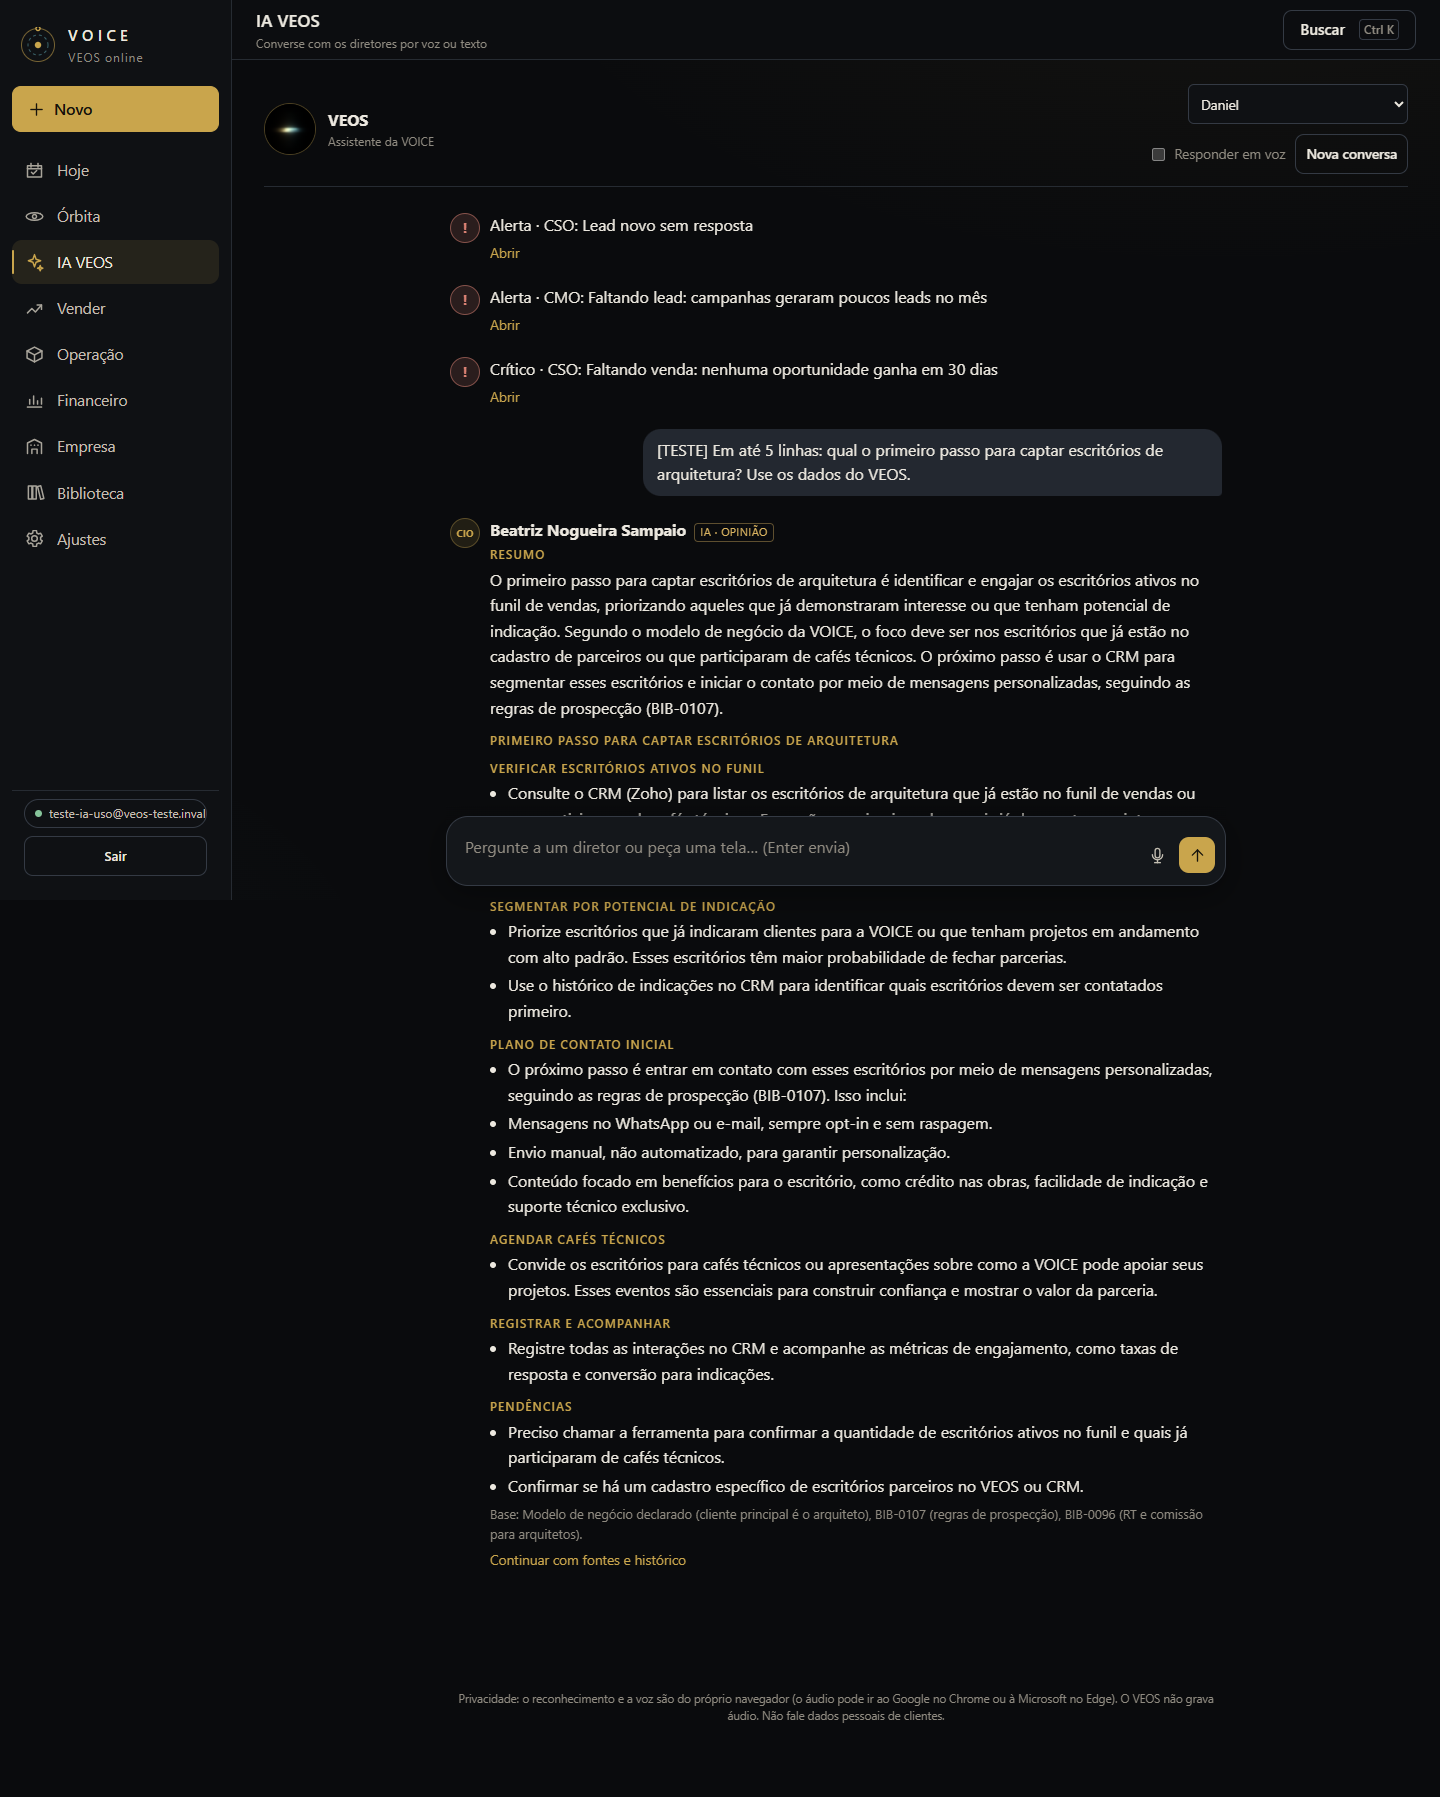
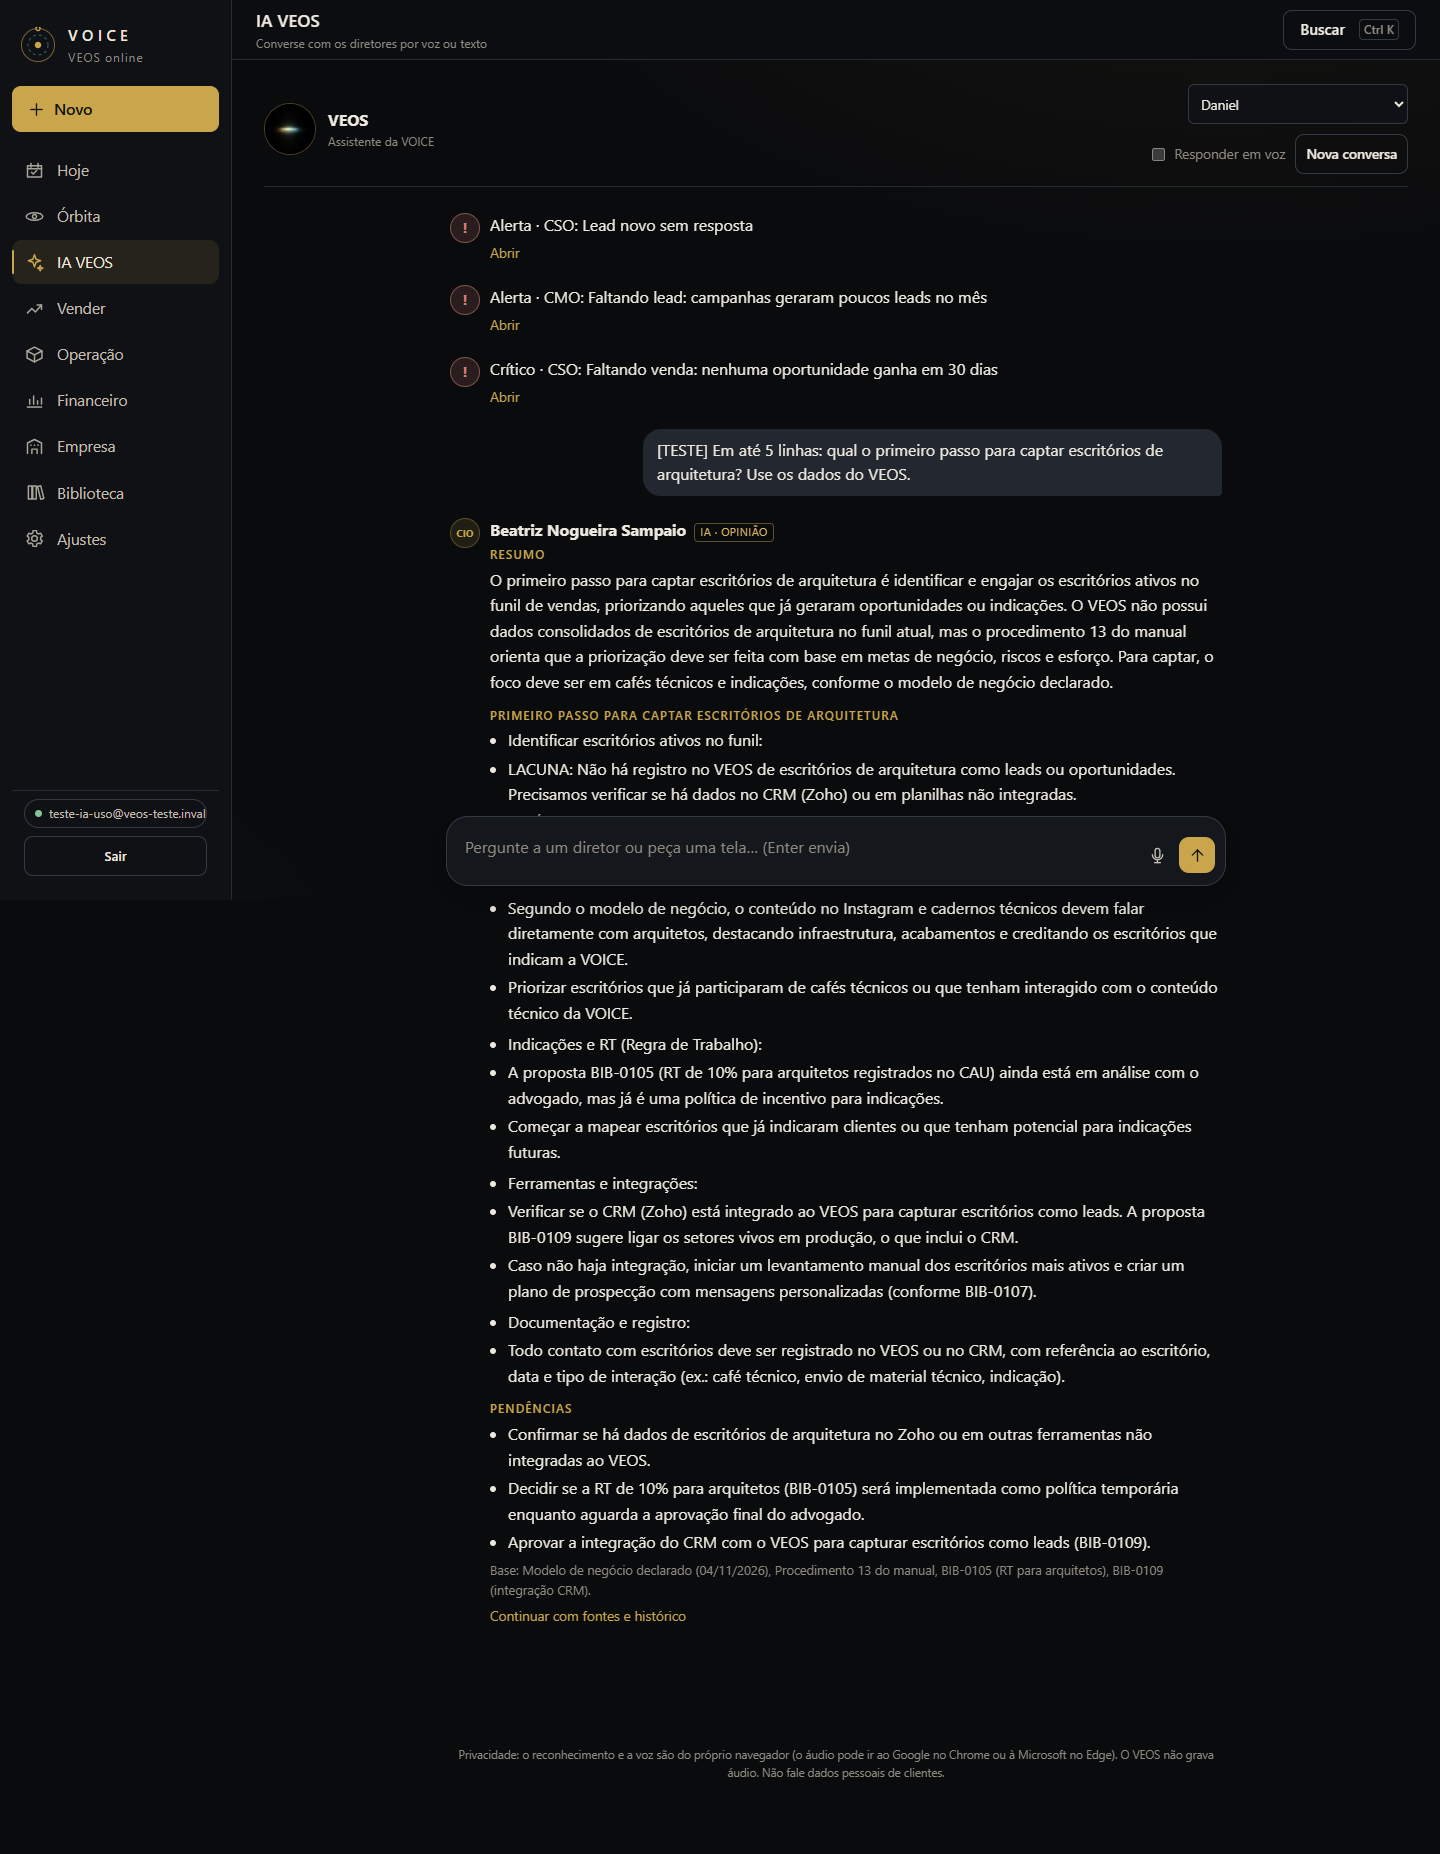
Resumo leve do faturamento, limpeza do ia.css

diff --git a/tests/telas/diretores.html b/tests/telas/diretores.html
@@ -1,5 +1,5 @@
 <!doctype html><html lang="pt-BR"><head><meta charset="utf-8"><meta name="viewport" content="width=device-width,initial-scale=1">
-<link rel="stylesheet" href="../css/tokens.css"><link rel="stylesheet" href="../css/base.css"><link rel="stylesheet" href="../css/layout.css"><link rel="stylesheet" href="../css/components.css"><link rel="stylesheet" href="../css/views.css"><link rel="stylesheet" href="../css/setores.css"><link rel="stylesheet" href="../css/pendencias.css"><link rel="stylesheet" href="../css/estrutura.css"><link rel="stylesheet" href="../css/orbita.css"><link rel="stylesheet" href="../css/ia.css"><link rel="stylesheet" href="../css/operacao.css"><link rel="stylesheet" href="../css/tema.css">
+<link rel="stylesheet" href="../css/tokens.css"><link rel="stylesheet" href="../css/base.css"><link rel="stylesheet" href="../css/layout.css"><link rel="stylesheet" href="../css/components.css"><link rel="stylesheet" href="../css/views.css"><link rel="stylesheet" href="../css/setores.css"><link rel="stylesheet" href="../css/pendencias.css"><link rel="stylesheet" href="../css/estrutura.css"><link rel="stylesheet" href="../css/orbita.css"><link rel="stylesheet" href="../css/operacao.css"><link rel="stylesheet" href="../css/tema.css">
 
 <!-- casos: conversa falha nova -->
 </head><body><main id="view" class="stack"></main><script type="module" src="diretores.js"></script></body></html>

diff --git a/tests/telas/ia.html b/tests/telas/ia.html
@@ -1,5 +1,5 @@
 <!doctype html><html lang="pt-BR"><head><meta charset="utf-8"><meta name="viewport" content="width=device-width,initial-scale=1">
-<link rel="stylesheet" href="../css/tokens.css"><link rel="stylesheet" href="../css/base.css"><link rel="stylesheet" href="../css/layout.css"><link rel="stylesheet" href="../css/components.css"><link rel="stylesheet" href="../css/views.css"><link rel="stylesheet" href="../css/setores.css"><link rel="stylesheet" href="../css/pendencias.css"><link rel="stylesheet" href="../css/estrutura.css"><link rel="stylesheet" href="../css/orbita.css"><link rel="stylesheet" href="../css/ia.css"><link rel="stylesheet" href="../css/operacao.css"><link rel="stylesheet" href="../css/tema.css">
+<link rel="stylesheet" href="../css/tokens.css"><link rel="stylesheet" href="../css/base.css"><link rel="stylesheet" href="../css/layout.css"><link rel="stylesheet" href="../css/components.css"><link rel="stylesheet" href="../css/views.css"><link rel="stylesheet" href="../css/setores.css"><link rel="stylesheet" href="../css/pendencias.css"><link rel="stylesheet" href="../css/estrutura.css"><link rel="stylesheet" href="../css/orbita.css"><link rel="stylesheet" href="../css/operacao.css"><link rel="stylesheet" href="../css/tema.css">
 
 <!-- casos: pergunta tela aviso -->
 </head><body><main id="view" class="stack"></main><script type="module" src="ia.js"></script></body></html>

diff --git a/tests/telas/hoje.html b/tests/telas/hoje.html
@@ -1,5 +1,5 @@
 <!doctype html><html lang="pt-BR"><head><meta charset="utf-8"><meta name="viewport" content="width=device-width,initial-scale=1">
-<link rel="stylesheet" href="../css/tokens.css"><link rel="stylesheet" href="../css/base.css"><link rel="stylesheet" href="../css/layout.css"><link rel="stylesheet" href="../css/components.css"><link rel="stylesheet" href="../css/views.css"><link rel="stylesheet" href="../css/setores.css"><link rel="stylesheet" href="../css/pendencias.css"><link rel="stylesheet" href="../css/estrutura.css"><link rel="stylesheet" href="../css/orbita.css"><link rel="stylesheet" href="../css/ia.css"><link rel="stylesheet" href="../css/operacao.css"><link rel="stylesheet" href="../css/tema.css">
+<link rel="stylesheet" href="../css/tokens.css"><link rel="stylesheet" href="../css/base.css"><link rel="stylesheet" href="../css/layout.css"><link rel="stylesheet" href="../css/components.css"><link rel="stylesheet" href="../css/views.css"><link rel="stylesheet" href="../css/setores.css"><link rel="stylesheet" href="../css/pendencias.css"><link rel="stylesheet" href="../css/estrutura.css"><link rel="stylesheet" href="../css/orbita.css"><link rel="stylesheet" href="../css/operacao.css"><link rel="stylesheet" href="../css/tema.css">
 
 <!-- casos: cheio vazio -->
 </head><body><main id="view" class="stack"></main><script type="module" src="hoje.js"></script></body></html>

diff --git a/tests/telas/operacao.js b/tests/telas/operacao.js
@@ -20,7 +20,8 @@ const ITENS = [{ ordem: 1, secao: "Sala", tipo: "produto", nome: "Interruptor in
 const FORM = { respostas: { impostos: { dados: { aliquota_produto_pct: "6", aliquota_servico_pct: "6" } } } };
 const salvos = [];
 Object.assign(api, {
-  cfoFormulario: async () => FORM, cfoOrcamentos: async () => ({ rbt12: { valor: 300000 }, orcamentos: [] }), cfoProdutos: async () => ({ produtos: [] }), cfoCambio: async () => ({ serie: [] }),
+  cfoFormulario: async () => FORM, cfoOrcamentos: async () => ({ rbt12: { valor: 300000 }, orcamentos: [] }),
+  cfoFaturamento: async () => ({ rbt12: { valor: 300000 } }), cfoProdutos: async () => ({ produtos: [] }), cfoCambio: async () => ({ serie: [] }),
   produtos: async () => ({ total: PROD.length, produtos: PROD }),
   clientes: async () => ({ clientes: caso === "clientes-vazio" ? [] : [CLI] }),
   cliente: async () => ({ cliente: CLI, orcamentos: [ORC], pedidos: [], oportunidades: [], historico: [{ acao: "criado", detalhe: {}, em: "2026-11-04T10:00:00Z" }] }),

diff --git a/supabase/functions/api/cfo.ts b/supabase/functions/api/cfo.ts
@@ -66,6 +66,10 @@ export async function rotearCfo(req: Request, partes: string[], eu: Membro) {
     const [r] = await servico("/rest/v1/formulario_respostas", { method: "POST", headers: { Prefer: "return=representation" }, body: JSON.stringify({ formulario: "cfo", secao: corpo.secao, dados, autor: eu.user_id }) });
     return { id: r.id, em: r.em };
   }
+  if (a === "orcamentos" && !post && new URL(req.url).searchParams.get("resumo") === "1") {
+    // leve: so o faturamento de 12 meses (montador de orcamento e telas que so precisam das aliquotas)
+    return { rbt12: await rbt12(), fonte: "Espelho do Zoho Books no VEOS (faturamento dos últimos 12 meses)" };
+  }
   if (a === "orcamentos" && !post) {
     const [estimativas, itens, faturamento] = await Promise.all([
       servico("/rest/v1/zoho_registros?produto=eq.books&modulo=eq.estimates&excluido=is.false&select=dados&limit=5000"),

diff --git a/apps/web/js/ui/views/orcamento.js b/apps/web/js/ui/views/orcamento.js
@@ -31,7 +31,7 @@ const situacao = (e) => stamp(...(SITUACOES[e] ?? [e, "neutral"]));
 async function contextoPreco() {
   const ctx = { p: null, imp: null, v: 0, rotulo: "LACUNA", texto: null, custoHora: null, cfo: null, validadeDias: 7, entradaPct: 40, canais: [], tempos: [], metrosPorPonto: 25 };
   try {
-    const [{ respostas }, orc] = await Promise.all([api.cfoFormulario(), api.cfoOrcamentos().catch(() => ({ rbt12: null }))]);
+    const [{ respostas }, orc] = await Promise.all([api.cfoFormulario(), api.cfoFaturamento().catch(() => ({ rbt12: null }))]);
     const p = parametros(respostas);
     const dp = diagnosticoParams(p, impostosSimulados(orc.rbt12) ?? impostosSimulados({ valor: 0 }));
     Object.assign(ctx, { p, imp: { produto: dp.params.tProduto, servico: dp.params.tServico }, v: p.v ?? 0, rotulo: dp.rotulo, texto: dp.texto, custoHora: p.hora?.custoHora ?? null,

diff --git a/apps/web/js/ui/views/cfo.js b/apps/web/js/ui/views/cfo.js
@@ -185,7 +185,7 @@ function painelLacunas(p) {
 
 // ================================================================ precos dos produtos
 export async function telaPrecosCfo(root) {
-  const [{ respostas }, { produtos }, orc] = await Promise.all([api.cfoFormulario(), api.cfoProdutos(), api.cfoOrcamentos().catch(() => ({ rbt12: null }))]);
+  const [{ respostas }, { produtos }, orc] = await Promise.all([api.cfoFormulario(), api.cfoProdutos(), api.cfoFaturamento().catch(() => ({ rbt12: null }))]);
   const p = parametros(respostas);
   // dolar desde a compra mais antiga do catalogo (max. 2 anos) para atualizar o custo pela variacao
   const ultimaCompra = (x) => (x.compras ?? []).map((c) => c.data).filter(Boolean).sort().pop() ?? null;

diff --git a/apps/web/js/data/api.js b/apps/web/js/data/api.js
@@ -140,6 +140,7 @@ export const api = {
   cfoFormulario: () => request("GET", "cfo/formulario"),
   cfoSalvarSecao: (secao, dados) => request("POST", "cfo/formulario", { secao, dados }, { "Idempotency-Key": crypto.randomUUID() }),
   cfoOrcamentos: () => request("GET", "cfo/orcamentos"),
+  cfoFaturamento: () => request("GET", "cfo/orcamentos?resumo=1"),
   cfoProdutos: () => request("GET", "cfo/produtos"),
   cfoCambio: (desde = "") => request("GET", `cfo/cambio${desde ? `?desde=${encodeURIComponent(desde)}` : ""}`),
   cfoPainel: () => request("GET", "cfo/painel"),

diff --git a/apps/web/index.html b/apps/web/index.html
@@ -19,7 +19,6 @@
   <link rel="stylesheet" href="css/views.css">
   <link rel="stylesheet" href="css/motion.css">
   <link rel="stylesheet" href="css/orbita.css">
-  <link rel="stylesheet" href="css/ia.css">
   <link rel="stylesheet" href="css/setores.css">
   <link rel="stylesheet" href="css/pendencias.css">
   <link rel="stylesheet" href="css/estrutura.css">

diff --git a/tests/telas/cfo_precos.js b/tests/telas/cfo_precos.js
@@ -5,6 +5,7 @@ import { rodar } from "./_kit.js";
 
 api.cfoFormulario = async () => ({ respostas: structuredClone(RESPOSTAS) });
 api.cfoOrcamentos = async () => ORCAMENTOS;
+api.cfoFaturamento = async () => ORCAMENTOS;
 api.cfoProdutos = async () => structuredClone(PRODUTOS);
 api.cfoCambio = async () => CAMBIO;
 rodar(async (v) => {

diff --git a/docs/PROXIMA_SESSAO.md b/docs/PROXIMA_SESSAO.md
@@ -68,7 +68,7 @@ Setores vivos (9) com registros, regras vivas e Radar · Estrutura da empresa (o
 8. **Importação dos escritórios de arquitetura pelos dados abertos do CNPJ** (CNAE 7111-1/00 e 7410-2/02, região de SC) por um job mensal gratuito no GitHub Actions, entrando como alvos na Prospecção (CSO-17). **Aguarda o OK do Fernando** (regra de prospecção BIB-0107).
 9. **Aviso com o navegador fechado** (Web Push com chaves VAPID nos segredos do Supabase; gratuito) — hoje os avisos só aparecem com o VEOS aberto (CIO-08).
 10. **MCP do VEOS ampliado** ("tudo que eu pedir no Claude ele cria no VEOS"): ferramentas de criação pela API com as permissões do usuário — cliente, orçamento, pedido em rascunho, conta a pagar, tarefa —, sempre com rascunho + confirmação humana para o que for irreversível (CIO-06). Configurar o MCP nesta máquina depende do Fernando gerar o código (Minha conta → Acesso do Claude Code).
-11. **Avisos do assistente**: incluir no chat flutuante as respostas dos diretores dadas em "Perguntar aos diretores" e as tarefas vencidas do dia (hoje entram só os alertas ALTO/CRÍTICO).
+11. **FEITO em 05/11** — Avisos do assistente: incluir no chat flutuante as respostas dos diretores dadas em "Perguntar aos diretores" e as tarefas vencidas do dia (hoje entram só os alertas ALTO/CRÍTICO).
 12. **Indicadores calculados sozinhos** (marketing, pós-venda, satisfação e retrabalho) com fonte e LACUNA quando faltar dado (CMO-06, CXO-06).
 13. **Receita recorrente dos contratos de suporte** (contrato → parcelas mensais → caixa e indicadores) (CFO-13, CXO-05).
 
@@ -77,8 +77,8 @@ Setores vivos (9) com registros, regras vivas e Radar · Estrutura da empresa (o
 15. **Mesclar o catálogo com os itens do Zoho** e o roteiro de desligamento do Zoho por módulo (BIB-0077, COO-04, CIO-05) — só quando o Fernando pedir.
 16. **Publicação automática no Instagram** pela API oficial da Meta (agendar os posts do calendário) — depende da conta comercial ligada a uma Página do Facebook e de quem aprova (CMO-03/CMO-10).
 17. **Histórico visível por registro** nas telas dos setores (SEC-05) e procedimentos que faltam nos manuais (funil no CSO, obra nova no COO, Wi-Fi lento no CIO).
-18. **Desempenho**: Formulário e telas do CFO carregam `GET /cfo/orcamentos` (~3 s, 220 KB); criar um resumo leve só com o faturamento de 12 meses para o montador de orçamento e o formulário.
-19. **Limpeza**: estilos antigos da tela IA (`apps/web/css/ia.css`, classes `.ia-*` não usadas), tela "Comando por voz" antiga e textos que ainda falam em "TESTE" para o usuário real.
+18. **FEITO em 05/11 (GET /cfo/orcamentos?resumo=1 para o montador e os preços)** — Desempenho: Formulário e telas do CFO carregam `GET /cfo/orcamentos` (~3 s, 220 KB); criar um resumo leve só com o faturamento de 12 meses para o montador de orçamento e o formulário.
+19. **FEITO em 05/11 (ia.css removido; textos TESTE do usuário real conferidos)** — Limpeza: estilos antigos da tela IA (`apps/web/css/ia.css`, classes `.ia-*` não usadas), tela "Comando por voz" antiga e textos que ainda falam em "TESTE" para o usuário real.
 
 ## Depende do Fernando para o PROGRAMA funcionar por completo (não é operação da empresa)
 - **Revogar a chave da Anthropic exposta no site antigo da VOICE** e trocar a senha da área interna (BIB-0104, CIO-13). Urgente.
@@ -91,4 +91,5 @@ Setores vivos (9) com registros, regras vivas e Radar · Estrutura da empresa (o
 - O classificador de segurança bloqueia algumas ações automáticas (ex.: apagar com caminho de "Program Files" no mesmo comando); separe os comandos.
 - A Supabase CLI interativa trava aqui; se precisar logar de novo, use `npx supabase login --token <PAT de escopo completo>`.
 - Edge headless é o navegador dos testes de tela; o Playwright usa o Edge instalado (`channel: "msedge"`).
+
 
